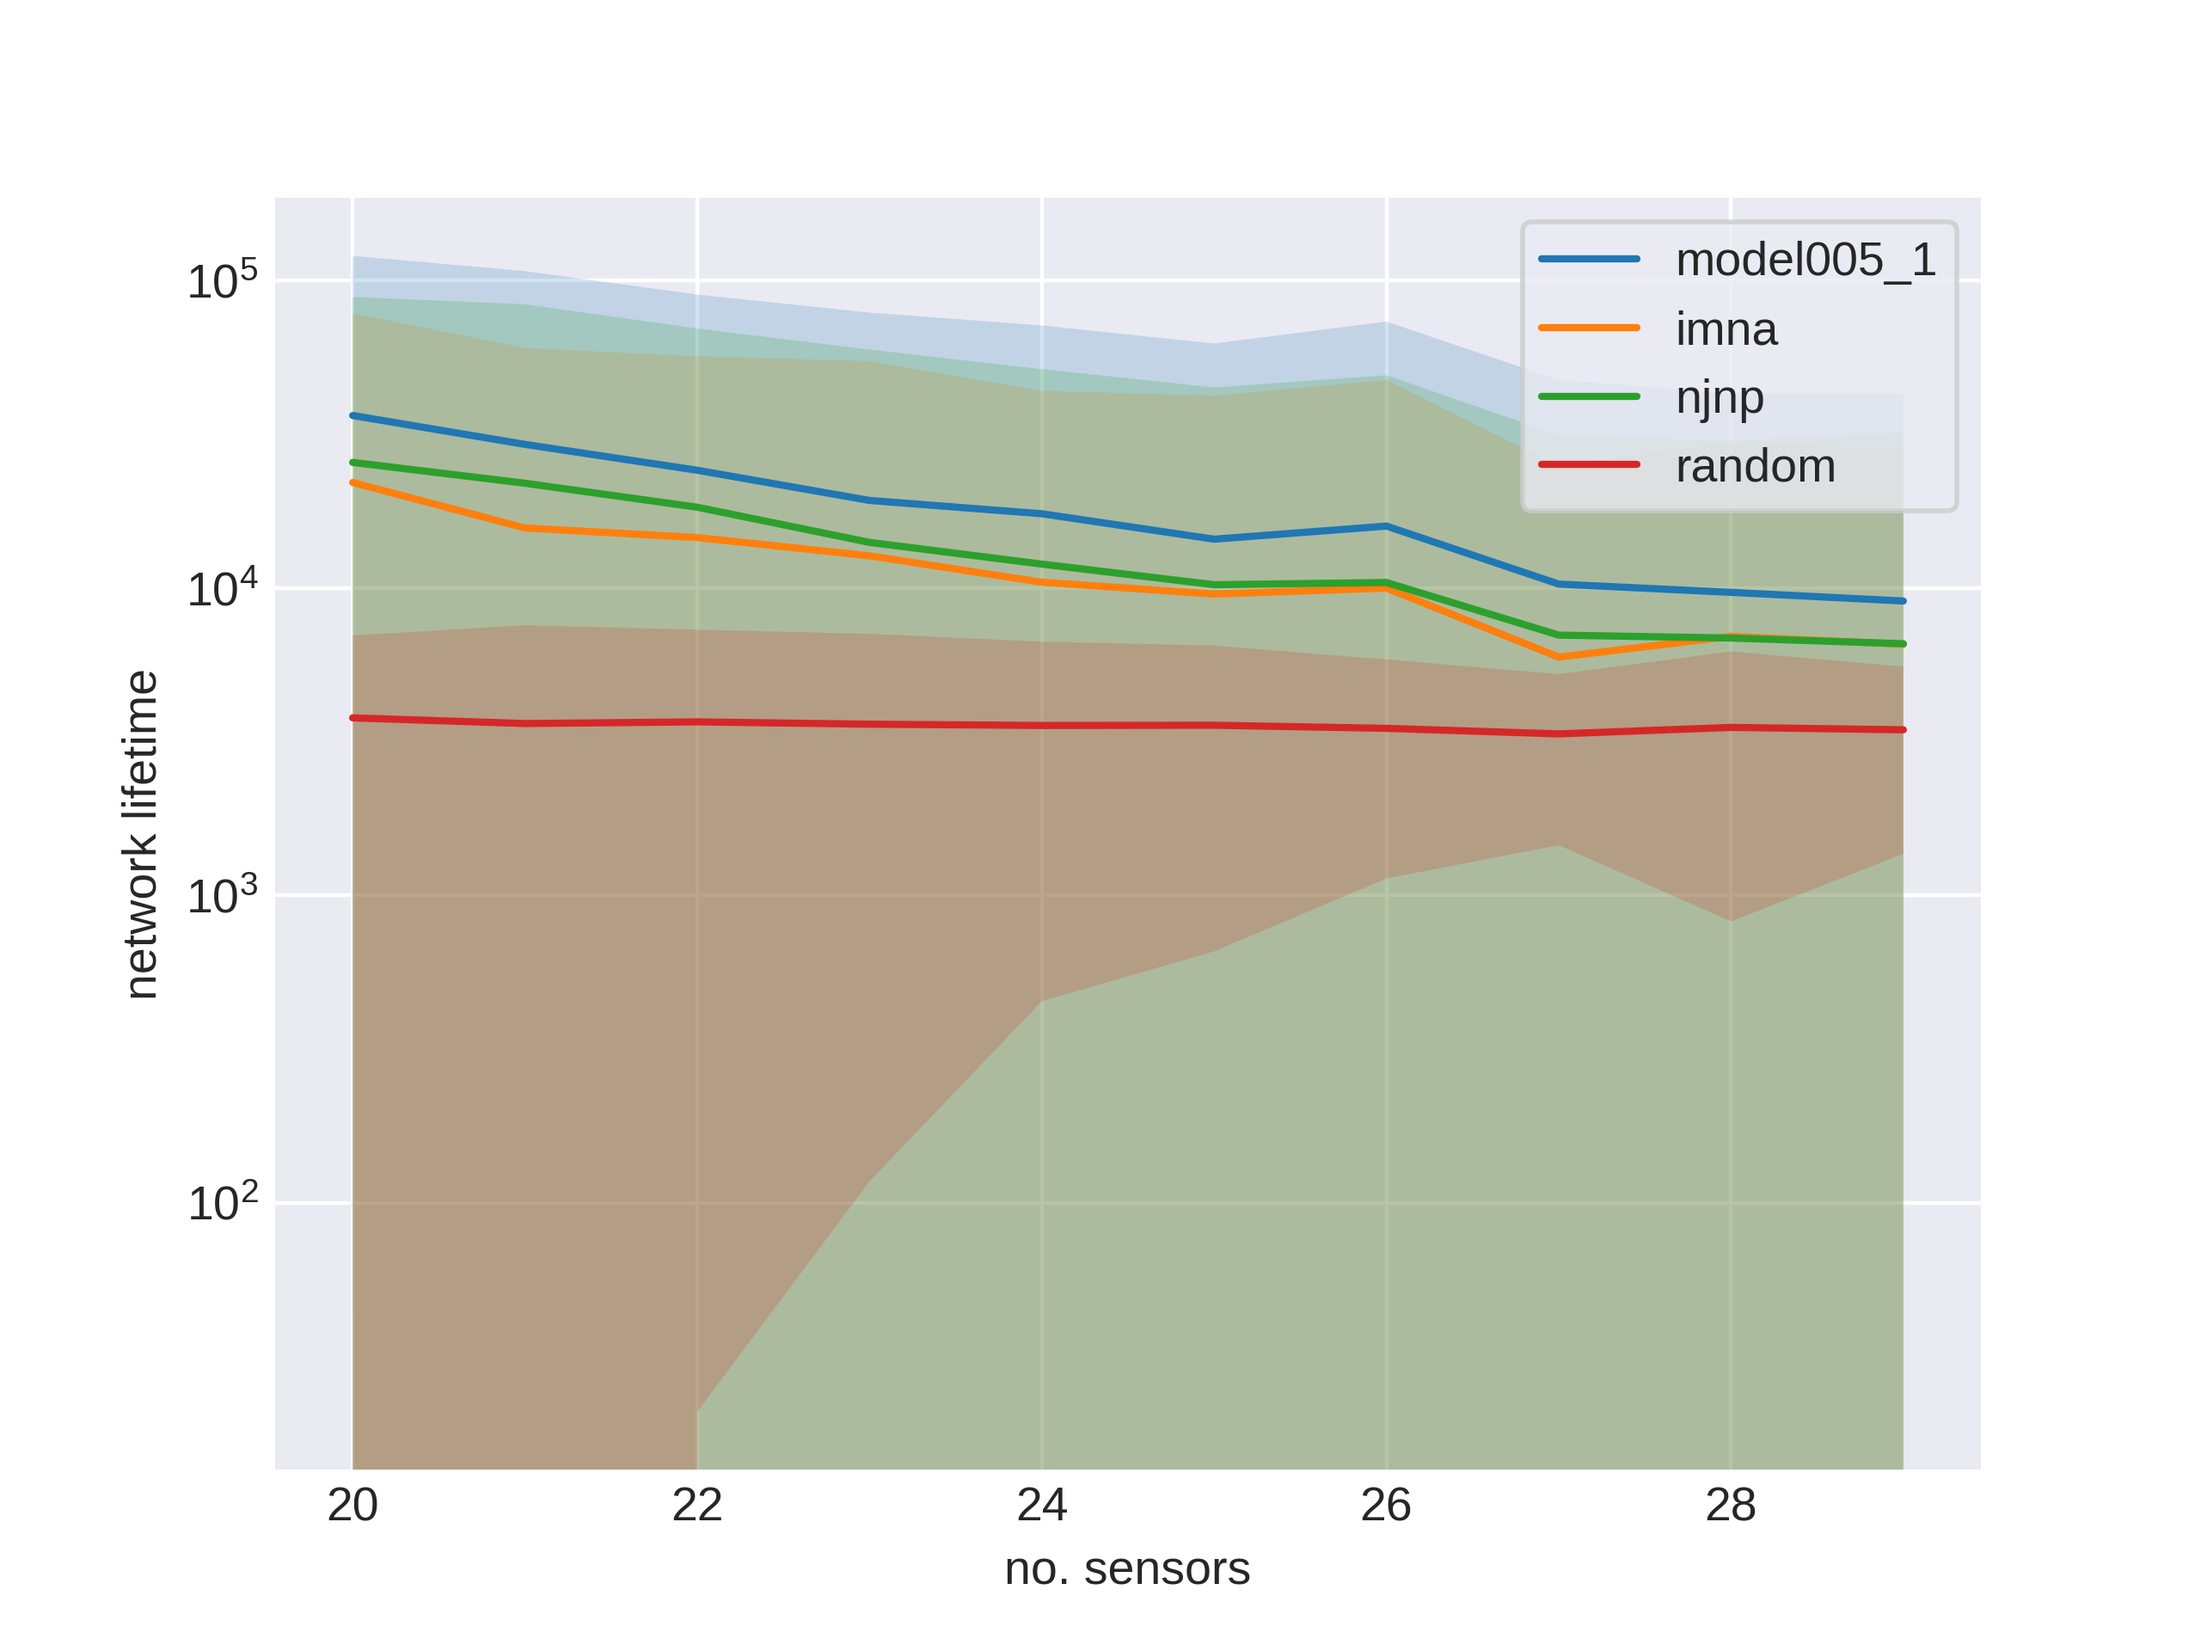
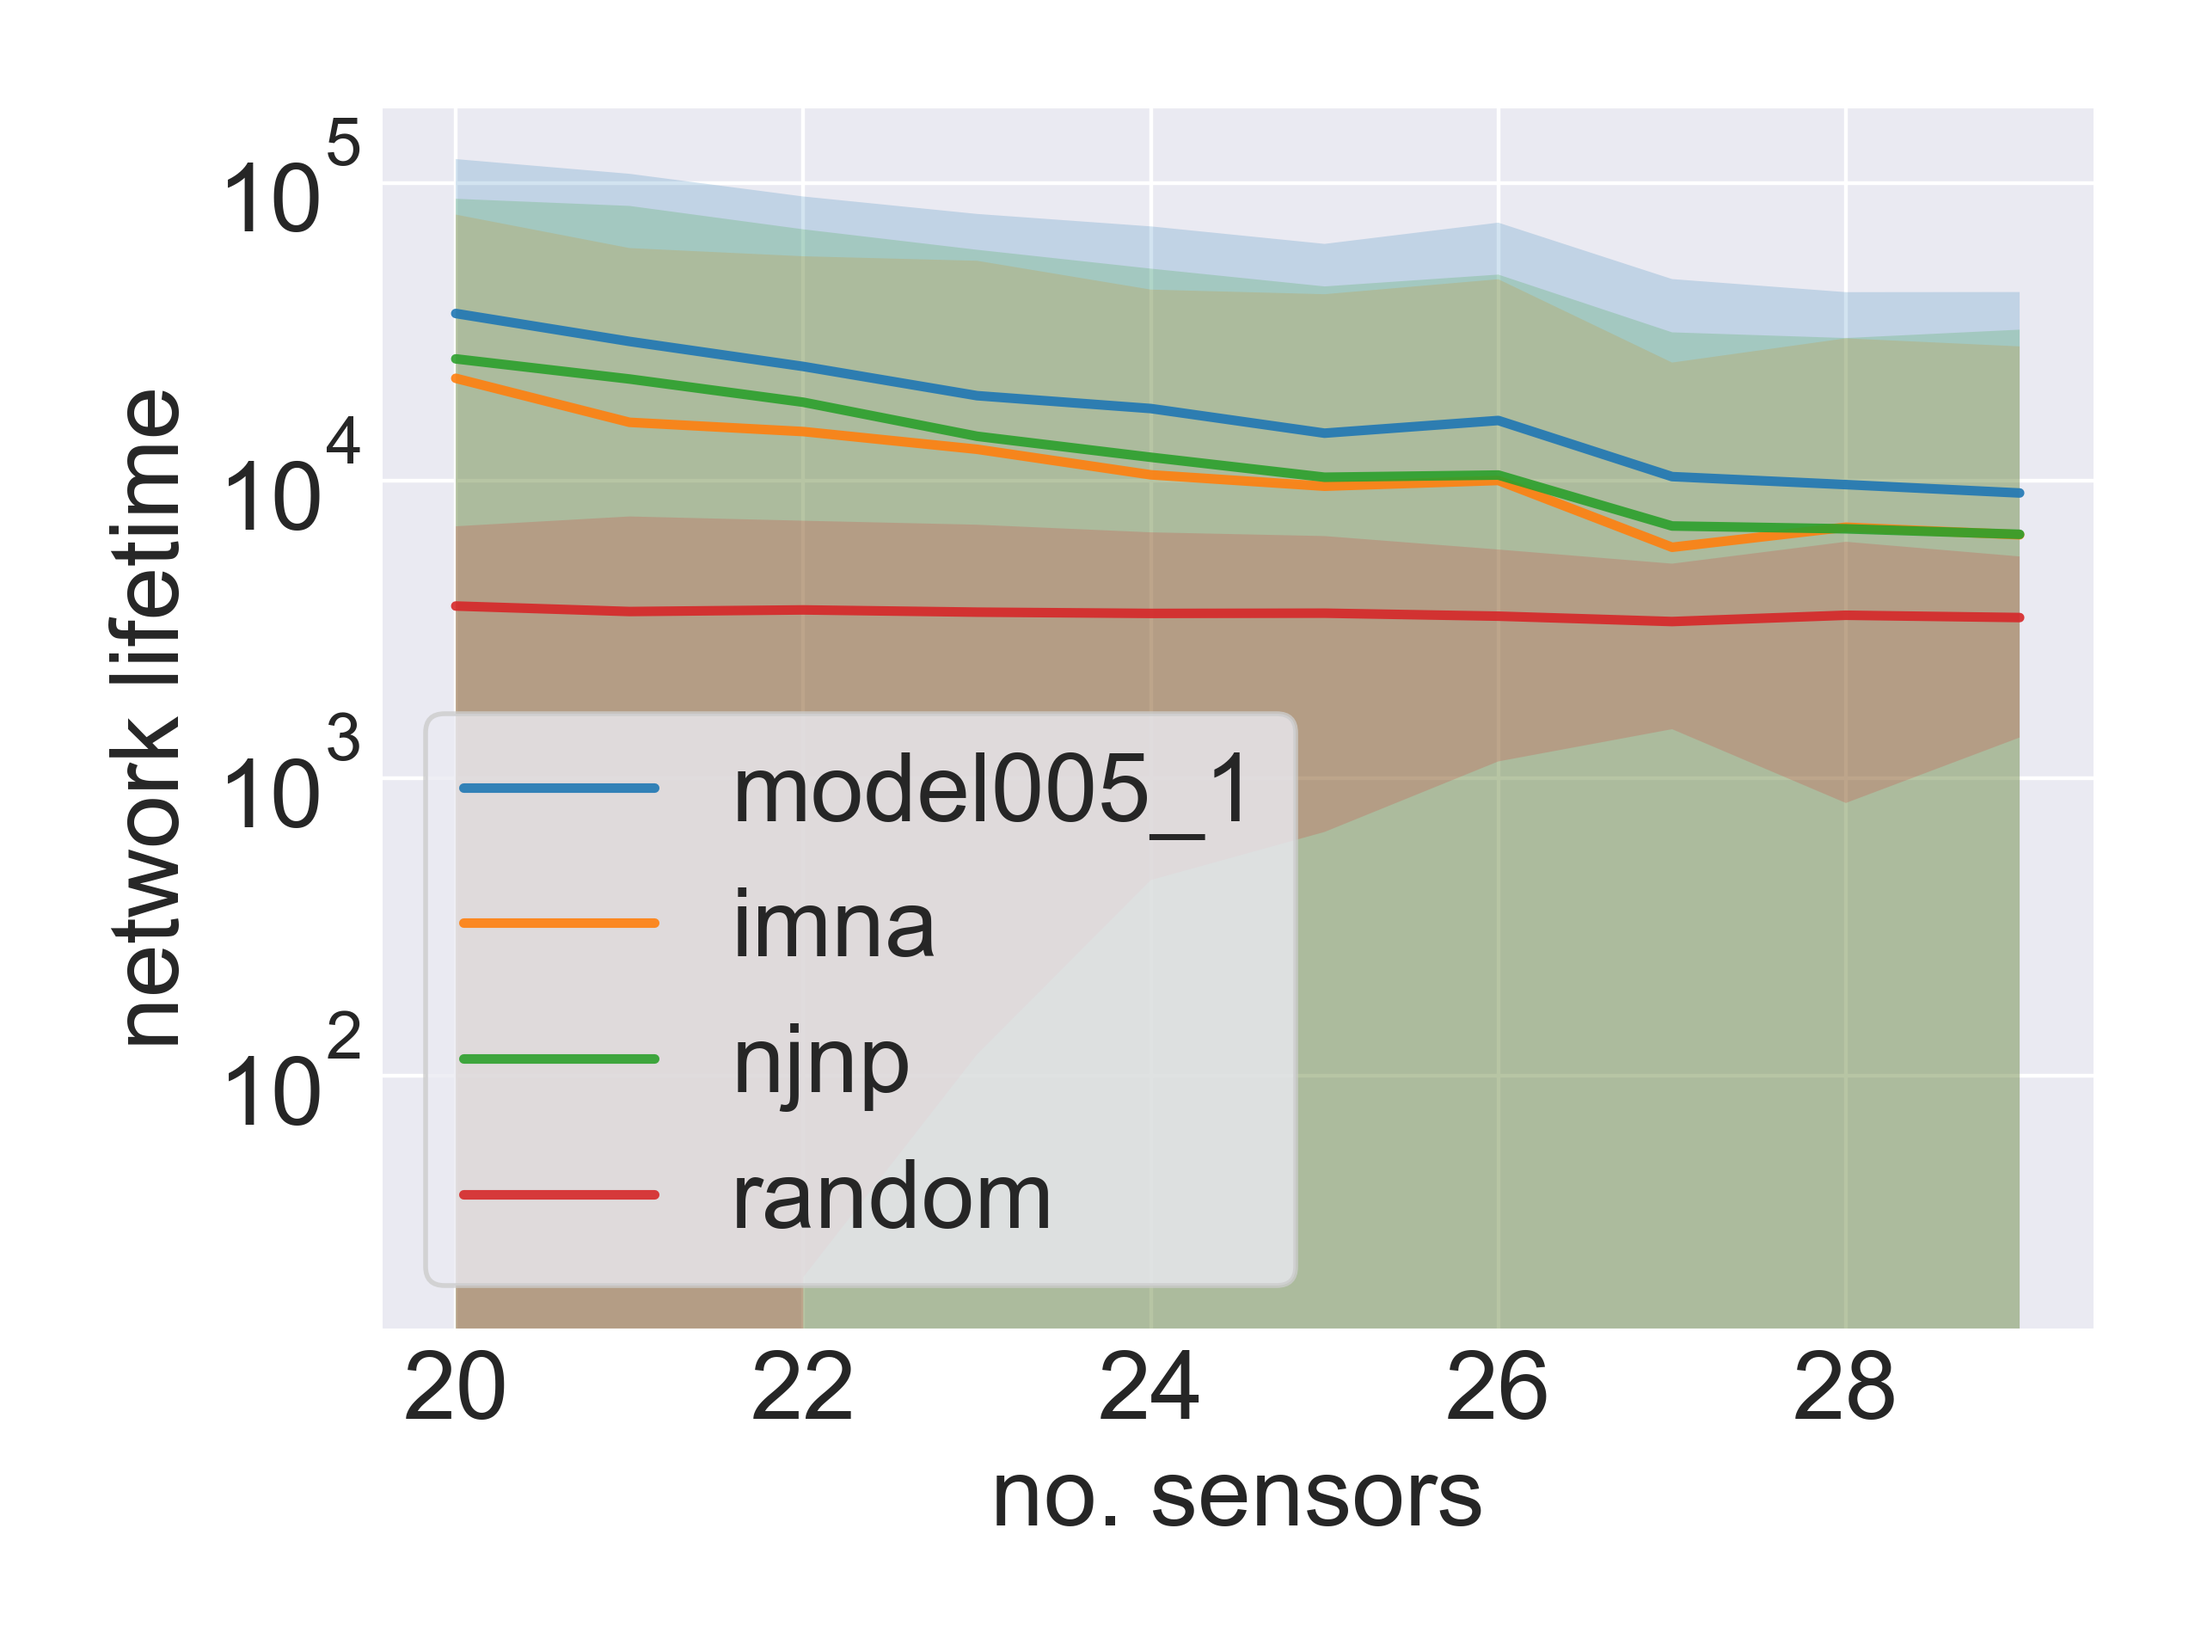
update

diff --git a/run_ept_12.py b/run_ept_12.py
@@ -43,10 +43,13 @@ def smooth(y, box_pts):
 def plot_mean_std(x, data, xlabel, ylabel, title, save_dir, plot_std=True,
                   yscale=None, smooth_k=1):
     plt.style.use('seaborn-darkgrid')
+    plt.rcParams.update({'font.size': 20})
+    plt.rcParams.update({'lines.linewidth': 2})
+    plt.rcParams.update({'axes.linewidth': 2})
     
     fig, ax = plt.subplots()
     for name, (mean, std) in data.items():
-        ax.plot(x, smooth(mean, smooth_k), label=name)
+        ax.plot(x, smooth(mean, smooth_k), label=name, alpha=0.9)
         if plot_std:
             ax.fill_between(x, 
                             smooth(np.clip(mean - std, 0.0, np.inf), smooth_k), 
@@ -58,22 +61,29 @@ def plot_mean_std(x, data, xlabel, ylabel, title, save_dir, plot_std=True,
         plt.yscale(yscale)
     ax.set_xlabel(xlabel)
     ax.set_ylabel(ylabel)
+    plt.tight_layout()
     # ax.set_title(title)
     plt.savefig(os.path.join(save_dir, f'{title}.png'), dpi=400)
     plt.close('all')
 
 def plot_inf_data(x, data, xlabel, ylabel, title, save_dir):
     plt.style.use('seaborn-darkgrid')
+    plt.rcParams.update({'font.size': 20})
+    plt.rcParams.update({'lines.linewidth': 2})
+    plt.rcParams.update({'axes.linewidth': 2})
     
     fig, ax = plt.subplots()
     i = 0
     for name, model_data in data.items():
-        ax.plot(x, model_data, label=name, zorder=10-i)
+        print(name)
+        print(x, model_data)
+        ax.plot(x, model_data, label=name, zorder=10-i, alpha=0.9)
         i += 1
 
     ax.legend(frameon=True)
     ax.set_xlabel(xlabel)
     ax.set_ylabel(ylabel)
+    plt.tight_layout()
     # ax.set_title(title)
     plt.savefig(os.path.join(save_dir, f'{title}.png'), dpi=400)
     plt.close('all')
@@ -209,6 +219,7 @@ def run_ept_1_2(ept, seed=123, save_dir='results', rerun=[], wp_default=WrsnPara
     node_failures = dict()
     aggregated_ecr = dict()
     inf_data = dict()
+    distance = dict()
     idx = None
     for name, model_data in data.items():
         idx = []
@@ -219,11 +230,16 @@ def run_ept_1_2(ept, seed=123, save_dir='results', rerun=[], wp_default=WrsnPara
         aggregated_ecr_mean = []
         aggregated_ecr_std = []
         inf_model_data = []
+        distance_mean = []
+        distance_std = []
+
 
         for num_sensors, ret in model_data:
             idx.append(num_sensors)
             lifetime_mean.append(ret['lifetime_mean'])
             lifetime_std.append(ret['lifetime_std'])
+            distance_mean.append(ret['travel_dist_mean'])
+            distance_std.append(ret['travel_dist_std'])
             node_failures_mean.append(ret['node_failures_mean'])
             node_failures_std.append(ret['node_failures_std'])
             aggregated_ecr_mean.append(ret['aggregated_ecr_mean'])
@@ -232,10 +248,15 @@ def run_ept_1_2(ept, seed=123, save_dir='results', rerun=[], wp_default=WrsnPara
             num_inf_tests = np.sum(np.isinf(inf_lifetimes))
             inf_model_data.append(num_inf_tests/len(inf_lifetimes))
 
+        # print(name)
+        # print(lifetime_mean)
+        # print(lifetime_std)
         lifetimes[name] = (np.array(lifetime_mean), np.array(lifetime_std))
+        distance[name] = (np.array(distance_mean), np.array(distance_std))
         node_failures[name] = (np.array(node_failures_mean), np.array(node_failures_std))
         aggregated_ecr[name] = (np.array(aggregated_ecr_mean), np.array(aggregated_ecr_std))
         inf_data[name] = inf_model_data
+    
 
     x = np.array(idx)
     xlabel = 'no. sensors' if ept == 1 else 'packet generation prob.'
@@ -250,6 +271,8 @@ def run_ept_1_2(ept, seed=123, save_dir='results', rerun=[], wp_default=WrsnPara
                   save_dir, yscale=None)
     plot_mean_std(x, lifetimes, xlabel, 'network lifetime', 'lifetime_log', 
                   save_dir, yscale='log')
+    plot_mean_std(x, distance, xlabel, 'travel distance', 'travel_dist', 
+                  save_dir)
     plot_mean_std(x, node_failures, xlabel, 'node failures', 'node_failures', save_dir)
     plot_mean_std(x, aggregated_ecr, xlabel, 'agg. energy consumption rate', 'agg_ecr', save_dir)
     plot_inf_data(x, inf_data, xlabel, 'num. instances', 'inf_data', save_dir)
